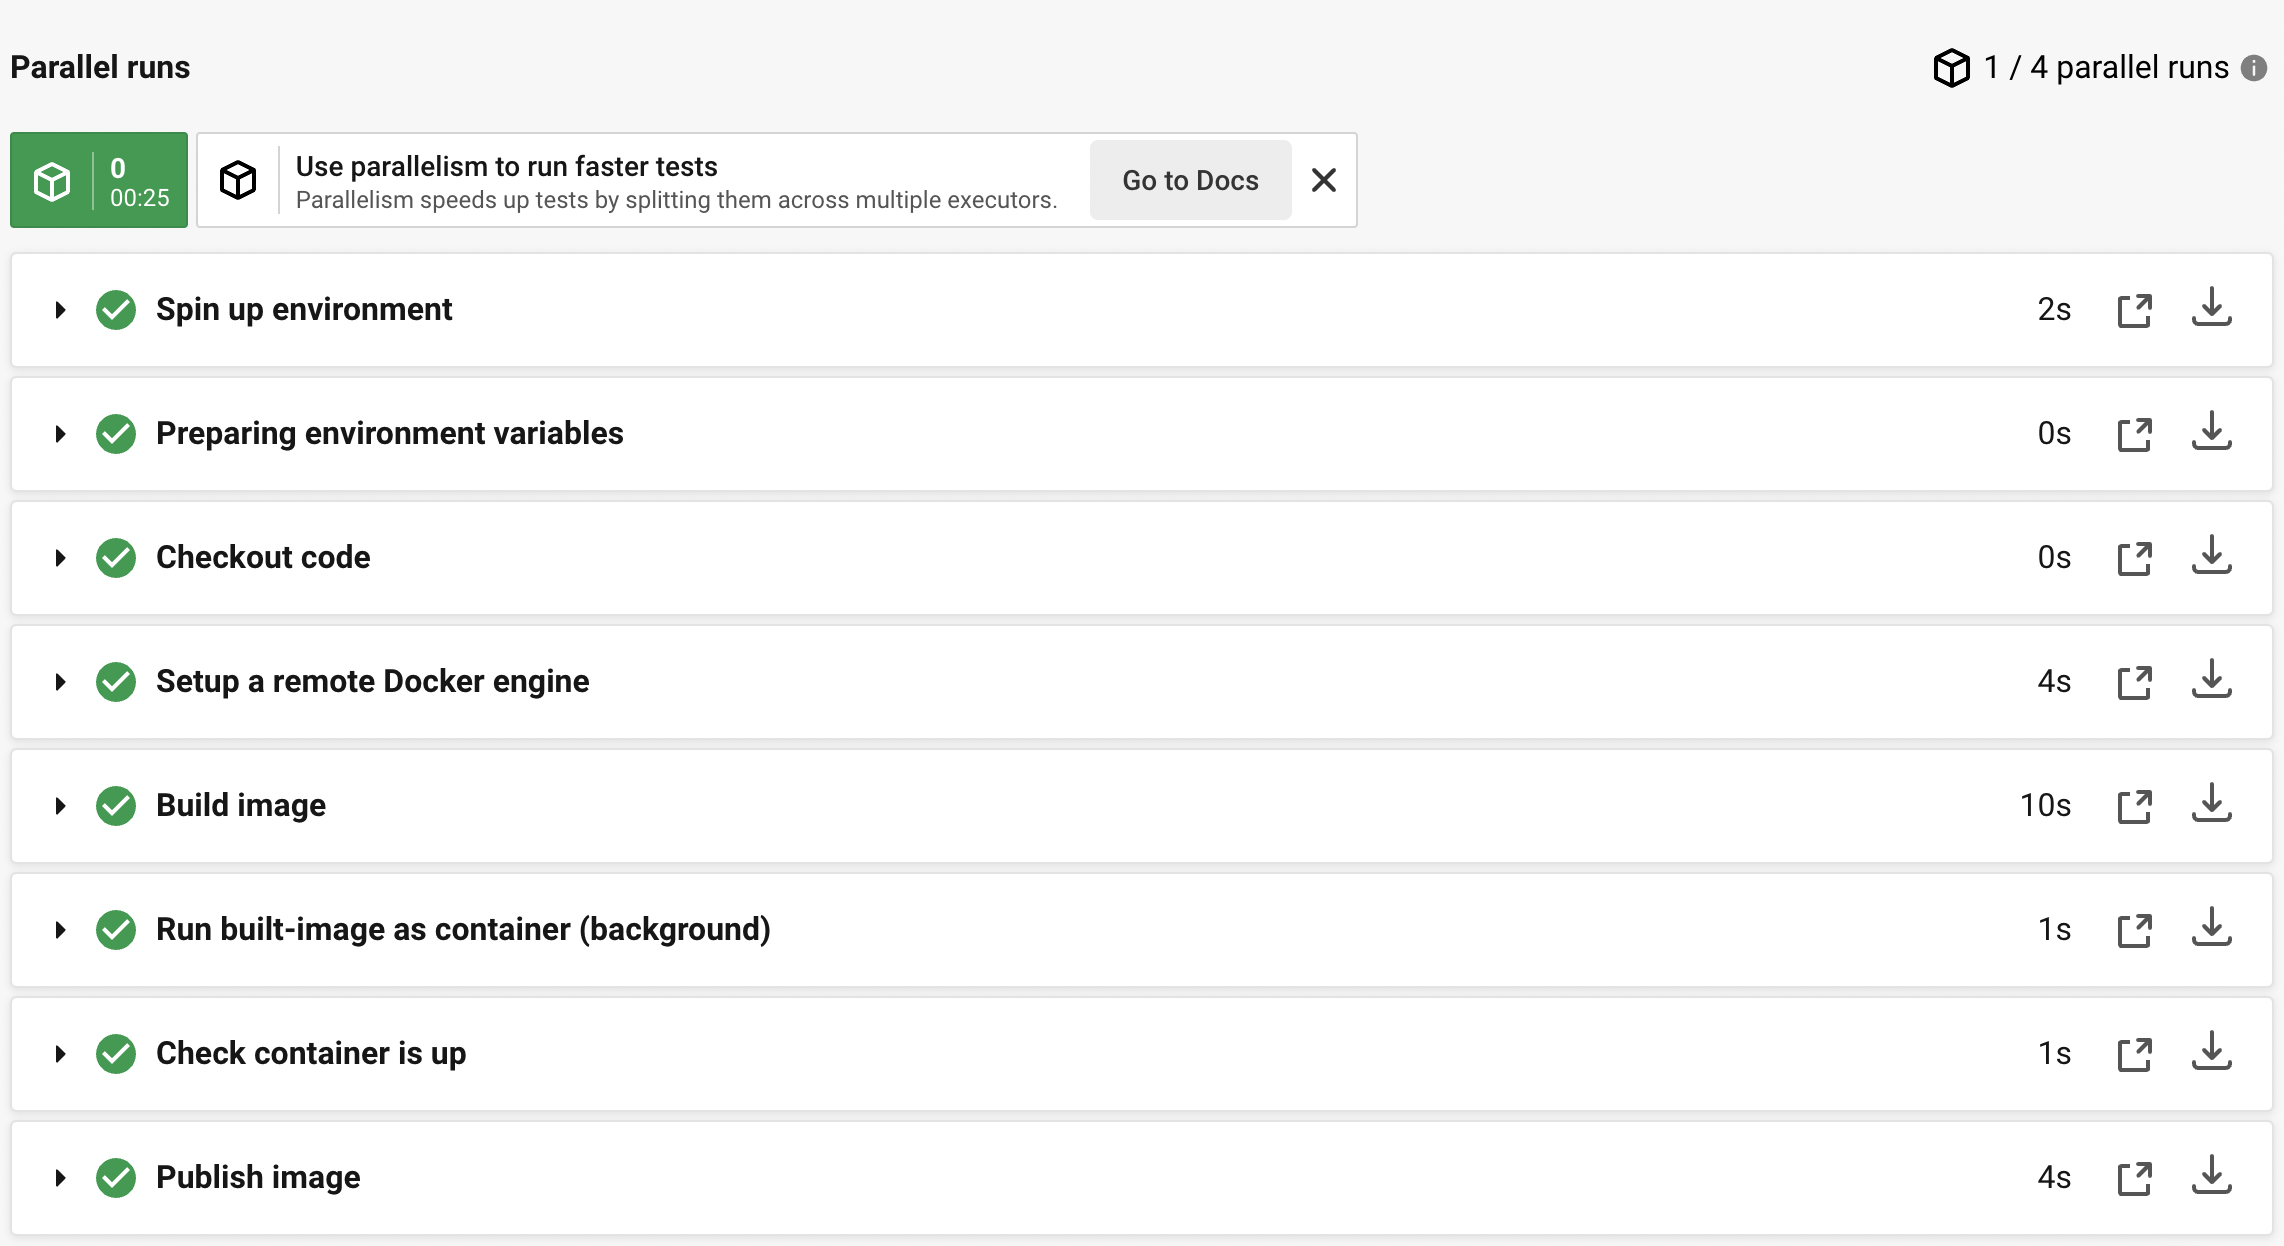
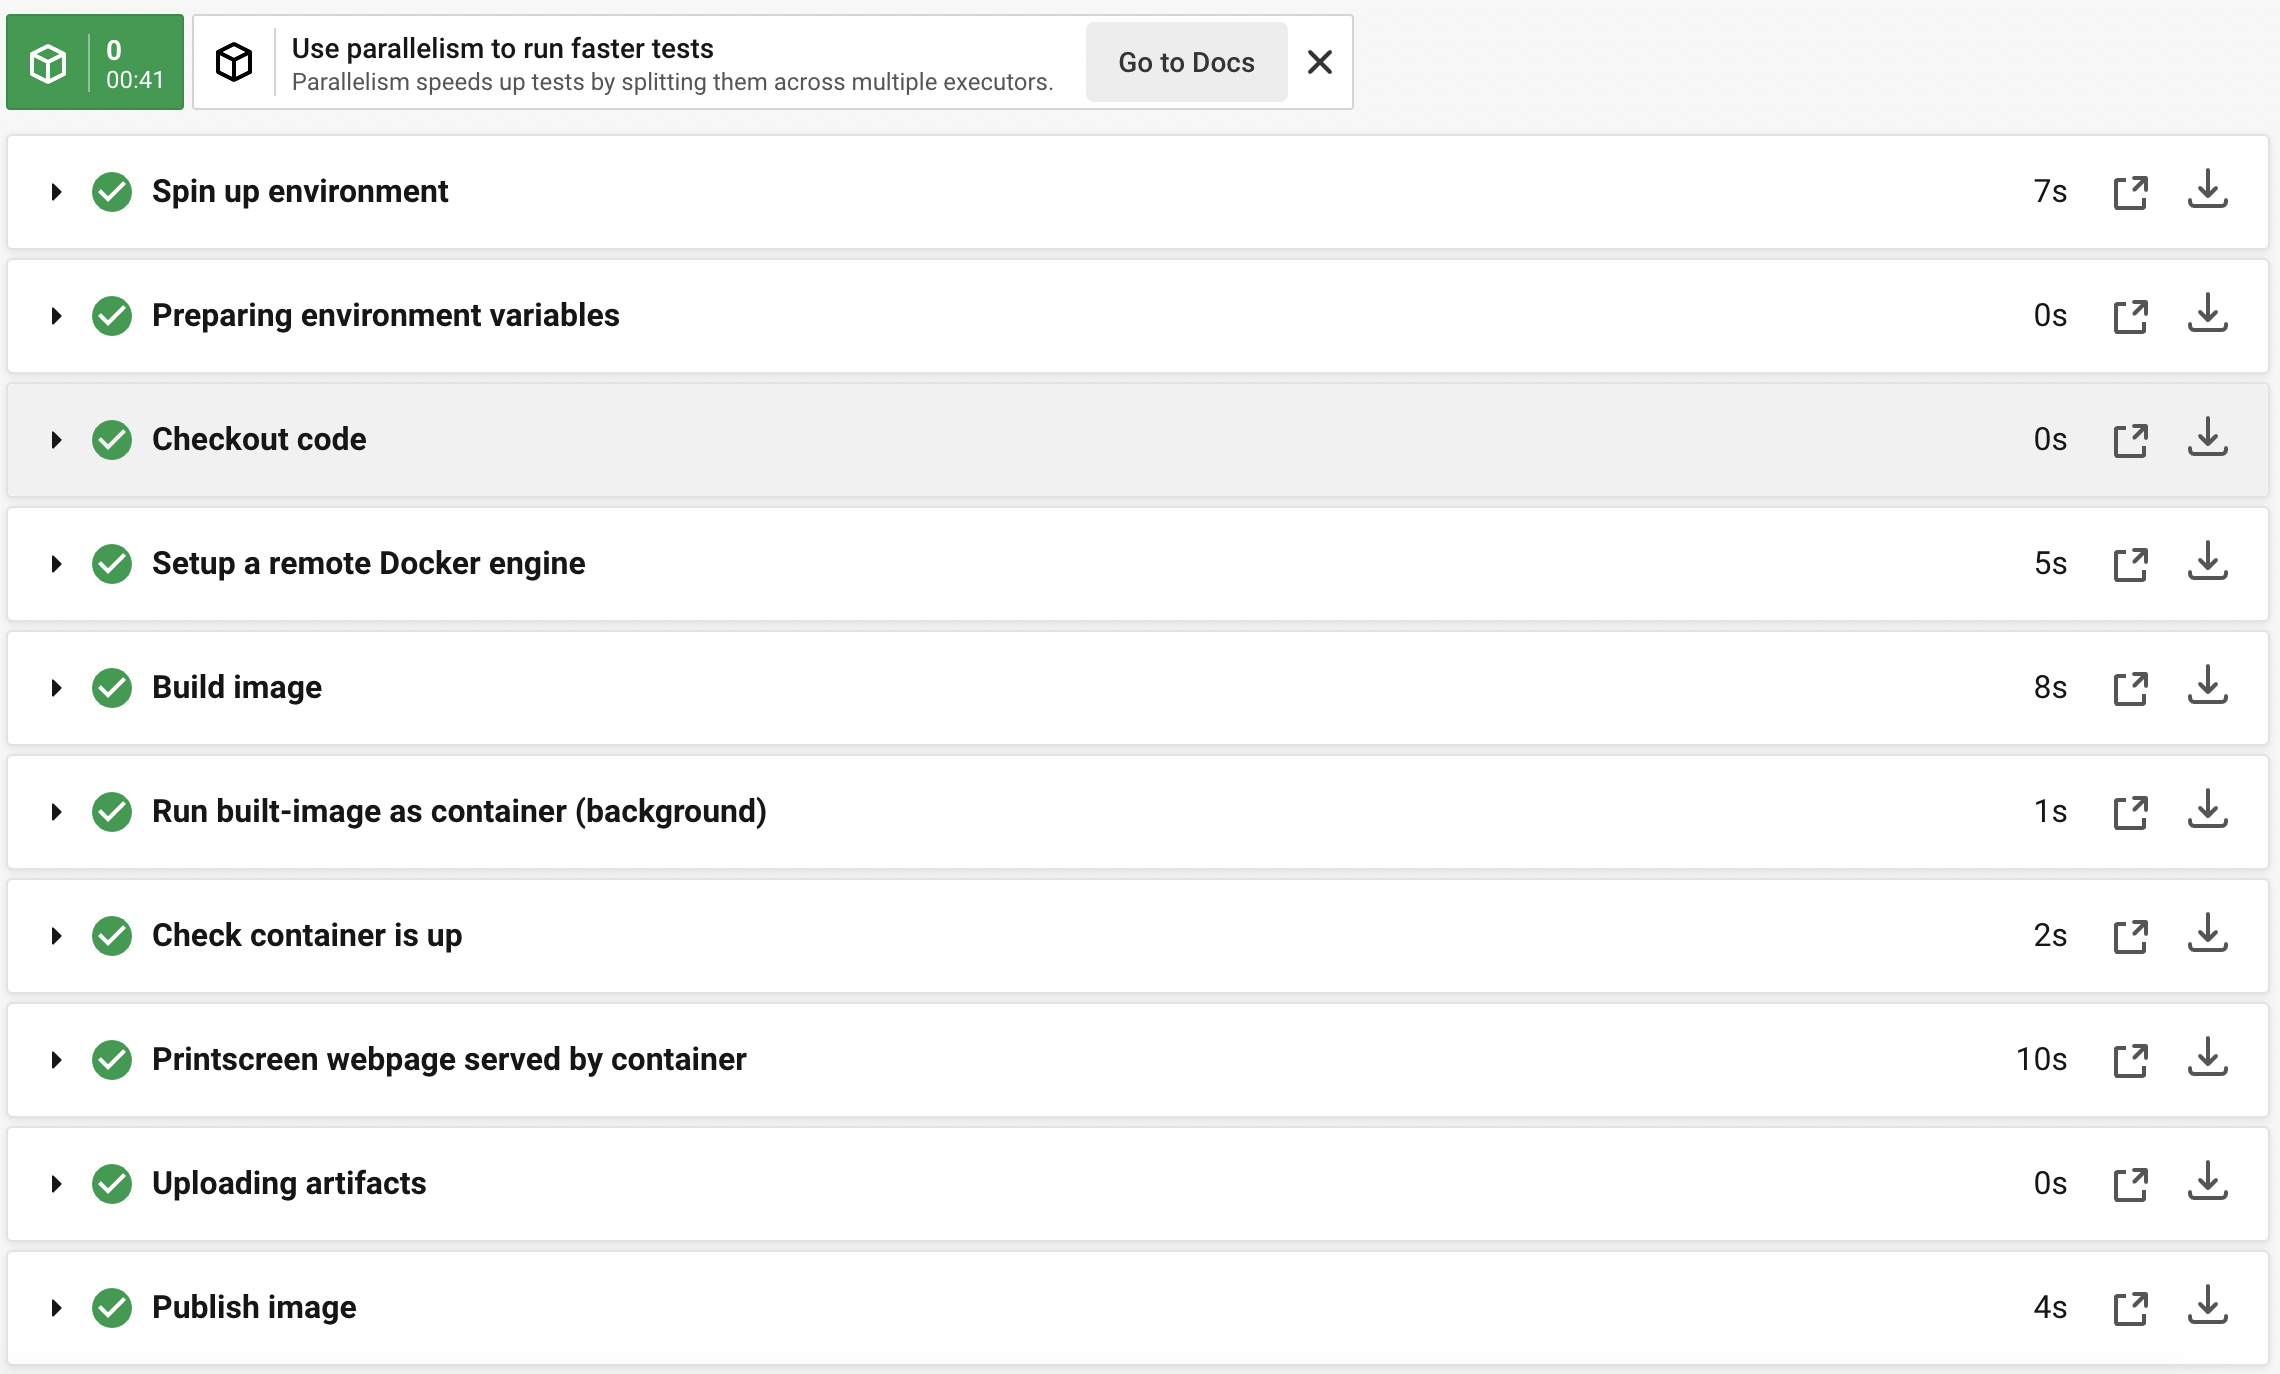
[skip ci] docs(README.md): add notes about screenshot

diff --git a/README.md b/README.md
@@ -25,6 +25,8 @@ However, in these examples, I would like to keep it as 'low-tech' as possible.
 
 This workflow builds a custom Nginx image, tests that our image can be spin up before publishing to a image repository (Docker Hub in this case).
 
+**Bonus**: We also take a screenshot of the custom Nginx server's web page [here](https://24-416657252-gh.circle-artifacts.com/0/screenshot.png)
+
 The published image is hosted in Docker Hub.
 
 [![dockeri.co](https://dockeri.co/image/kelvintaywl/fancy-nginx)](https://hub.docker.com/r/kelvintaywl/fancy-nginx)
@@ -34,10 +36,11 @@ Features:
  - `docker container run`
  - [dockerize](https://github.com/jwilder/dockerize) tool
  - `docker image push`
+ - `docker cp`
 
  ![Build for custom nginx](assets/build_custom_nginx.png)
 
-> [See sample build](https://app.circleci.com/pipelines/github/kelvintaywl/whale-of-a-time/11/workflows/4fa62a70-e12b-4e0a-8c4f-7ccccb110909/jobs/12)
+> [See sample build](https://app.circleci.com/pipelines/github/kelvintaywl/whale-of-a-time/17/workflows/0a18786c-d6d0-4347-a8c7-bbb7d0c0c2c0/jobs/24)
 
 
 ### `compose_tests`
